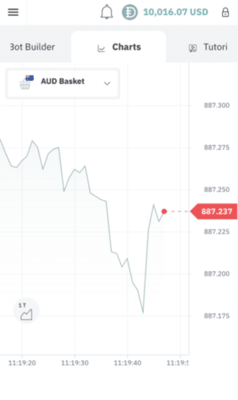
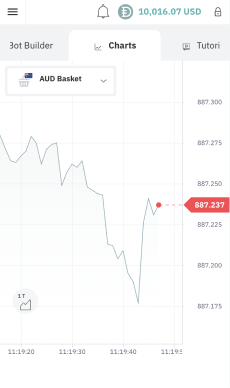
fix: step count and better images

diff --git a/packages/bot-web-ui/src/components/dashboard/tour-slider.tsx b/packages/bot-web-ui/src/components/dashboard/tour-slider.tsx
@@ -137,7 +137,7 @@ const TourSlider = ({
                             weight='less-prominent'
                             line_height='s'
                             size='xxs'
-                        >{`${step_key}/7`}</Text>
+                        >{`${step_key}/6`}</Text>
                         <Text
                             color='prominent'
                             weight='--text-less-prominent'
